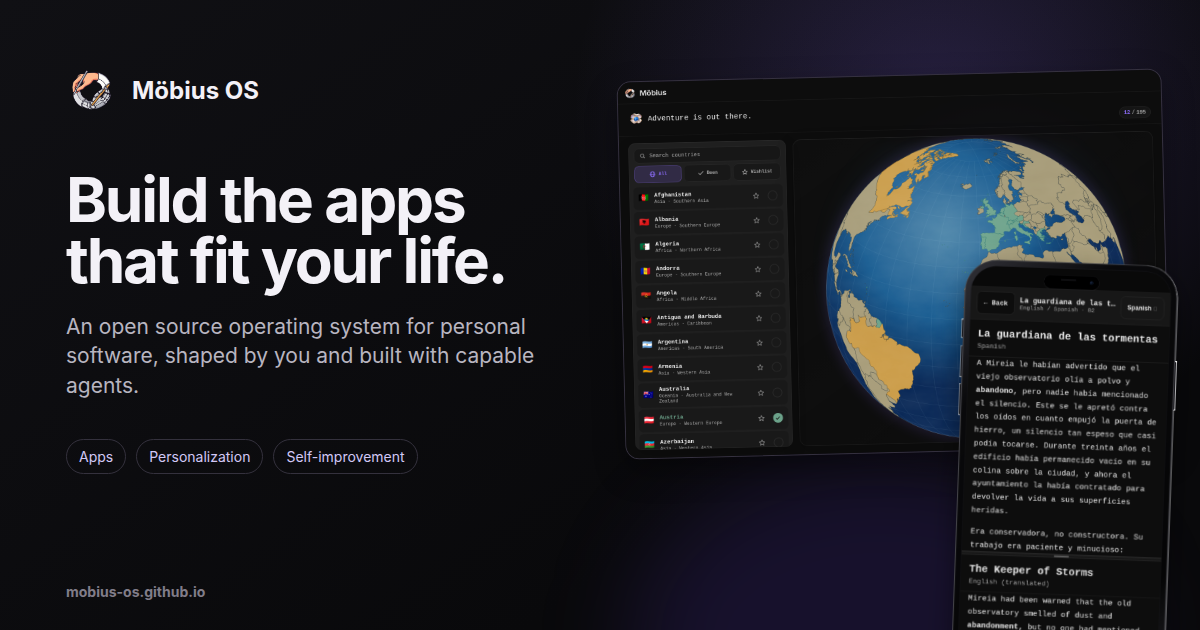
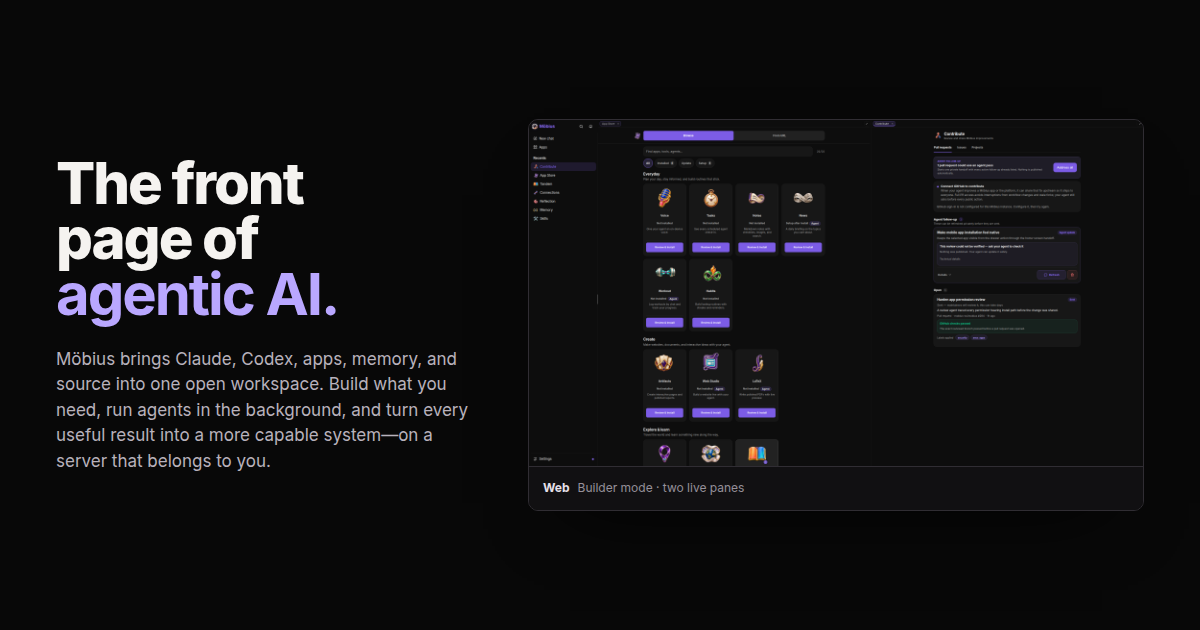
Refresh README for agentic workspace

diff --git a/README.md b/README.md
@@ -5,7 +5,7 @@
 <h1 align="center">Möbius</h1>
 
 <p align="center">
-  An open-source AGI app platform. Build the apps you need, shape the workspace around your life, and help useful work improve productivity for everyone.
+  The open-source front page of agentic AI. Build apps, run agents, and improve the system with memory embedded.
 </p>
 
 <p align="center">
@@ -16,16 +16,72 @@
 
 <p align="center">
   <a href="https://mobius.you/"><strong>Launch Möbius</strong></a> ·
-  <a href="https://mobius-os.github.io/apps/">Browse apps</a> ·
-  <a href="#ask-for-what-you-need">Ask your agent</a> ·
+  <a href="#start-with-the-app-store">Browse apps</a> ·
+  <a href="#build-apps-and-run-agents">Build with agents</a> ·
   <a href="#contribute-to-the-platform">Contribute</a>
 </p>
 
+## The front page of agentic AI
+
+Möbius is a self-hosted workspace where Claude, Codex, apps, memory, skills, files, and source live together. Start with what exists, build what is missing, and keep the result in the same place where you use it.
+
+Agents can work with you in chat, inside apps, or through scheduled background work. Memory carries useful context forward, while Reflection turns repeated friction into improvements you can inspect and choose to keep. The goal is maximum productivity through a loop: run useful work, remember what matters, and make the next run better.
+
+![Current Möbius Builder mode with the drawer open and App Store and Contribute in two live panes](assets/product/app-building-showcase.png)
+
+This is the current product, not a diagram: the drawer, pane strips, App Store,
+app icons, and Contribute surface were captured from a running Möbius container.
+
+## Start with the App Store
+
+The App Store includes everyday tools and the parts that help Möbius run itself. Browse apps for writing, planning, learning, health, creation, memory, connected tools, background work, and development. Its collections, summaries, state, and icons come from the published app manifests.
+
+![The current Möbius App Store with its Browse and From URL tabs, filters, collections, and vertical app cards](assets/product/app-store.png)
+
+<table>
+  <tr>
+    <td align="center" width="25%"><img src="assets/product/app-icons/voice.png" width="64" alt="Voice icon"><br><strong>Voice</strong></td>
+    <td align="center" width="25%"><img src="assets/product/app-icons/tasks.png" width="64" alt="Tasks icon"><br><strong>Tasks</strong></td>
+    <td align="center" width="25%"><img src="assets/product/app-icons/notes.png" width="64" alt="Notes icon"><br><strong>Notes</strong></td>
+    <td align="center" width="25%"><img src="assets/product/app-icons/news.png" width="64" alt="News icon"><br><strong>News</strong></td>
+  </tr>
+  <tr>
+    <td align="center"><img src="assets/product/app-icons/workout.png" width="64" alt="Workout icon"><br><strong>Workout</strong></td>
+    <td align="center"><img src="assets/product/app-icons/habits.png" width="64" alt="Habits icon"><br><strong>Habits</strong></td>
+    <td align="center"><img src="assets/product/app-icons/artifacts.png" width="64" alt="Artifacts icon"><br><strong>Artifacts</strong></td>
+    <td align="center"><img src="assets/product/app-icons/webstudio.png" width="64" alt="Web Studio icon"><br><strong>Web Studio</strong></td>
+  </tr>
+  <tr>
+    <td align="center"><img src="assets/product/app-icons/latex.png" width="64" alt="LaTeX icon"><br><strong>LaTeX</strong></td>
+    <td align="center"><img src="assets/product/app-icons/maps.png" width="64" alt="Maps icon"><br><strong>Maps</strong></td>
+    <td align="center"><img src="assets/product/app-icons/atlas.png" width="64" alt="Atlas icon"><br><strong>Atlas</strong></td>
+    <td align="center"><img src="assets/product/app-icons/tandem.png" width="64" alt="Tandem icon"><br><strong>Tandem</strong></td>
+  </tr>
+  <tr>
+    <td align="center"><img src="assets/product/app-icons/beat-machine.png" width="64" alt="Beat Machine icon"><br><strong>Beat Machine</strong></td>
+    <td align="center"><img src="assets/product/app-icons/cuberun.png" width="64" alt="CubeRun icon"><br><strong>CubeRun</strong></td>
+    <td align="center"><img src="assets/product/app-icons/memory.png" width="64" alt="Memory icon"><br><strong>Memory</strong></td>
+    <td align="center"><img src="assets/product/app-icons/connections.png" width="64" alt="Connections icon"><br><strong>Connections</strong></td>
+  </tr>
+  <tr>
+    <td align="center"><img src="assets/product/app-icons/reflection.png" width="64" alt="Reflection icon"><br><strong>Reflection</strong></td>
+    <td align="center"><img src="assets/product/app-icons/subagents.png" width="64" alt="Subagents icon"><br><strong>Subagents</strong></td>
+    <td align="center"><img src="assets/product/app-icons/workflows.png" width="64" alt="Workflows icon"><br><strong>Workflows</strong></td>
+    <td align="center"><img src="assets/product/app-icons/skills.png" width="64" alt="Skills icon"><br><strong>Skills</strong></td>
+  </tr>
+  <tr>
+    <td align="center"><img src="assets/product/app-icons/store.png" width="64" alt="App Store icon"><br><strong>App Store</strong></td>
+    <td align="center"><img src="assets/product/app-icons/contribute.png" width="64" alt="Contribute icon"><br><strong>Contribute</strong></td>
+    <td align="center"><img src="assets/product/app-icons/editor.png" width="64" alt="Editor icon"><br><strong>Editor</strong></td>
+    <td></td>
+  </tr>
+</table>
+
+Each community app is a public repository under the [Möbius OS GitHub organization](https://github.com/mobius-os). Install a reviewed app from the catalog or bring a public manifest URL, then ask your agent to make it yours. Updates preserve the app's data and local changes.
+
 ## Build apps around the way you work
 
-Möbius is a self-hosted workspace where your agent builds apps beside the conversation. Describe what you need, inspect the result, and keep the app in the same place where you use it.
-
-You do not need to know how Möbius apps are built. Start with a community app or tell your agent what would make your work easier. It can create the missing piece, adapt an existing app, and keep refining it from your feedback.
+You do not need to know how Möbius apps are built. Tell your agent what would make your work easier, inspect the working result beside the conversation, and keep refining it from your feedback.
 
 <table>
   <tr>
@@ -40,40 +96,67 @@ You do not need to know how Möbius apps are built. Start with a community app o
 
 Other apps can be as personal as the trip they support. Brazil 2026 keeps an itinerary, local phrases, weather, packing, and a journal together. News prepares a daily digest around the topics you care about.
 
-## Ask for what you need
+## Build apps and run agents
 
 Open a chat and describe the outcome you want in your own words. For example:
 
 - “Build me a simple meal planner that remembers our favourite recipes.”
 - “Add a weekly view and quicker task entry to my planner.”
-- “Make the whole workspace calmer and easier to read on my phone.”
+- “Run this check every morning and tell me when something changes.”
 
-Your agent takes care of building it, opens a working version beside the conversation, and checks it as it works. You can react to what you see and keep asking for changes. The result can stay private to your Möbius or, when it could help others, be prepared for review as a community contribution.
+Your agent can build or adapt the app, work with real files, use connected tools, and set up recurring work. The Skills app keeps the playbooks behind that work visible and searchable.
+
+![Skills showing the playbooks available to Möbius agents](assets/product/skills.png)
+
+No autonomous rewrite ships without a person in the loop. Agents can prepare changes, run tests, and explain their reasoning. People still decide what becomes part of their Möbius or the shared platform.
 
 ## Use the same workspace on phone and web
 
-Möbius runs as a progressive web app (PWA). Your apps, files, chat, memory, and settings stay together across a computer and phone.
-
-![Editor showing the same app project across web and iPhone](assets/product/editor-continuity.png)
-
-## Personalize the whole platform
-
-The workspace can change with you. Themes reshape the shell, Memory keeps durable context available, and Reflection reviews completed work for improvements worth carrying forward.
+Möbius runs as a progressive web app (PWA). On the web, Builder mode can open the app an agent is creating in a new pane beside the conversation. On mobile, the result arrives in a new tab while the composer keeps files, model choice, continuation controls, and memory context within reach. Different devices can build different apps; they do not have to be mirrored views of the same example.
 
 <table>
   <tr>
-    <td width="36%"><img src="assets/product/memory-graph-iphone.png" alt="Memory showing connected notes on an iPhone"></td>
-    <td width="64%"><img src="assets/product/themes.png" alt="Möbius in its default theme and a custom expressive theme"></td>
+    <td width="72%"><img src="assets/product/workspace-multiple-panes.png" alt="Möbius Builder mode with the drawer open and App Store and Contribute visible in separate panes"></td>
+    <td width="28%"><img src="assets/product/mobile-plus.png" alt="Möbius on mobile with the plus menu open above the composer"></td>
   </tr>
   <tr>
-    <td><strong>Memory:</strong> connect facts, decisions, preferences, and projects.</td>
-    <td><strong>Themes:</strong> change the full workspace, not one isolated app.</td>
+    <td><strong>Web:</strong> keep the drawer and several working panes visible together.</td>
+    <td><strong>Mobile:</strong> press + for files, model, continuation, summary, and agent context.</td>
   </tr>
 </table>
 
-## Grow an open-source AGI
+An installed app can also become its own home-screen entry. Open the app's
+drawer actions, choose **Install to home screen**, confirm its current icon and
+name, then finish the browser handoff.
 
-Möbius is an open-source AGI app platform that grows with the needs of its users. Anyone can build an app or platform change for their own work. When an idea helps beyond one person, Contribute gives it a path back to the community. Shared apps and platform improvements can raise productivity for everyone.
+![Tandem selected in the Möbius drawer, followed by the Add to home screen sheet and install handoff](assets/product/mobile-install-to-home.png)
+
+## Memory and self-improvement are built in
+
+Memory connects facts, decisions, preferences, and projects so useful context can survive the conversation where it first appeared. Reflection runs on a schedule, reviews completed work, and turns recurring friction into a better default, skill, app change, or proposal.
+
+<table>
+  <tr>
+    <td width="34%"><img src="assets/product/memory-graph.png" alt="Memory showing connected notes about the user, Möbius apps, and the platform"></td>
+    <td width="66%"><img src="assets/product/reflection-settings.png" alt="Reflection settings for its morning brief and background agents"></td>
+  </tr>
+  <tr>
+    <td><strong>Memory:</strong> durable context shared across apps and agents.</td>
+    <td><strong>Reflection:</strong> scheduled review with explicit background-agent settings.</td>
+  </tr>
+</table>
+
+Themes can still reshape the full workspace, while Git history keeps agent-made source changes inspectable and recoverable.
+
+## Improve an open-source system
+
+Möbius grows with the needs of the people using it. Anyone can build an app or platform change for their own work. When an idea helps beyond one person, Contribute gives it a path back to the community. Shared apps and platform improvements can raise the starting point for everyone.
+
+Contribute keeps that path inspectable. A private review agent can refresh a
+proposal before it is sent; a security audit can trace permission-bearing paths;
+GitHub checks and labels stay visible; and nothing is published automatically.
+
+![The current Contribute app showing an agent follow-up, a security review, and passing GitHub checks](assets/product/contribute-agent-review.png)
 
 <table>
   <tr>
@@ -94,16 +177,6 @@ Build for a real need, make it yours, improve what gets in the way, then share w
 
 Möbius deliberately supports coding agents that can work across a real repository. Today, that means OpenAI Codex and Claude Code. The owner chat agent can edit the frontend and backend, while git history keeps those changes reversible.
 
-No autonomous rewrite ships without a person in the loop. Agents can prepare changes, run tests, and explain their reasoning. People still decide what becomes part of the shared platform.
-
-## Start with the community catalog
-
-The App Store includes tools for notes, tasks, skills, memory, reflection, development, news, health, and learning. Each app is a public repository under the [Möbius OS GitHub organization](https://github.com/mobius-os).
-
-![The Möbius App Store](assets/product/app-store.png)
-
-Install a community app from the catalog, then ask your agent to make it yours. Updates preserve the app's data and your local changes.
-
 ## Bring agent access
 
 Möbius uses an agent account you already control. Connect one of these providers during setup:
@@ -112,6 +185,8 @@ Möbius uses an agent account you already control. Connect one of these provider
 - **Claude Code**: sign in with a supported Claude Code plan
 
 Möbius uses provider sign-in, so the default setup does not require a separate API key. Reflection is its adaptive overnight meta-loop: it learns from recent work, anticipates likely needs, improves recurring workflows, and evolves its own operating model over time.
+
+Möbius always resolves a concrete named model for the active provider. First-run chats and initial background agents share the same programmatic Claude/Codex model map, and the picker never exposes an unnamed model state.
 
 ## Launch your Möbius
 
